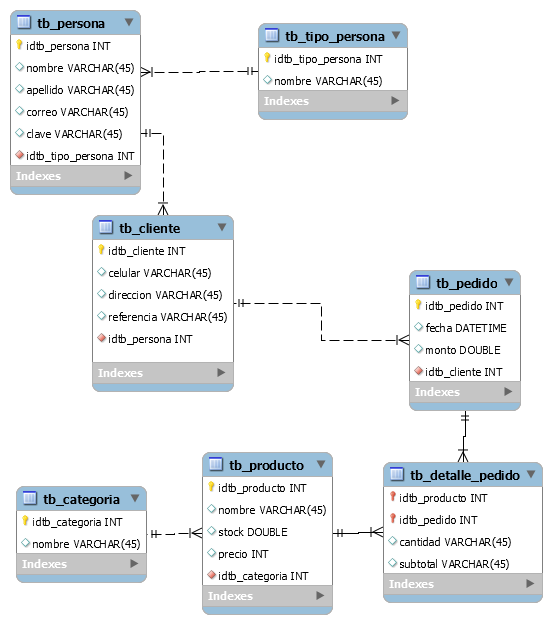
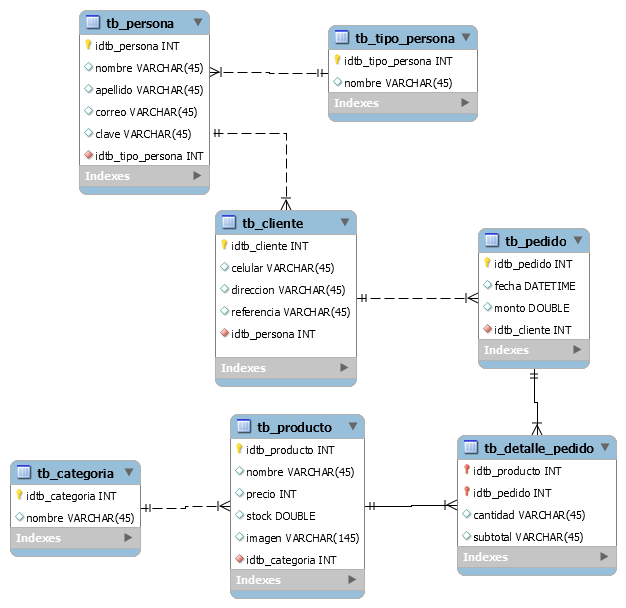
Administrador - Producto, listar y agregar finish

Changed region(s): [[0.0, 0.0, 0.9855, 1.0], [0.0, 0.75, 0.308, 0.9375], [0.4312, 0.2188, 0.462, 0.25]]

diff --git a/application/views/producto/list.php b/application/views/producto/list.php
@@ -15,7 +15,7 @@
             <div class="box-body">
                 <div class="row">
                     <div class="col-md-12">
-                        <a href="<?php echo base_url(); ?>Producto/add" class="btn btn-primary btn-flat">
+                        <a href="<?php echo base_url(); ?>index.php/Producto/add" class="btn btn-primary btn-flat">
                             <span class="fa fa-plus"></span>
                             Agregar producto
                         </a>
@@ -28,51 +28,25 @@
                             <thead>
                                 <tr>
                                     <th>#</th>
-                                    <th>Codigo</th>
                                     <th>Nombre</th>
-                                    <th>Descripcion</th>
                                     <th>Precio</th>
                                     <th>Stock</th>
+                                    <th>Imagen</th>
                                     <th>Categoria</th>
                                     <th>Opciones</th>
                                 </tr>
                             </thead>
                             <tbody>
-                                <?php if(empty($productos)): ?>
-                                    <tr>
-                                        <td>0</td>
-                                        <td>No hay registros</td>
-                                        <td>No hay registros</td>
-                                        <td>No hay registros</td>
-                                        <td>No hay registros</td>
-                                        <td>No hay registros</td>
-                                        <td>No hay registros</td>
-                                        <td>
-                                            <div class="btn-group">
-                                                <a href="#" class="btn btn-info">
-                                                    <span class="fa fa-eye"></span>
-                                                </a>
-                                                <a href="#" class="btn btn-warning">
-                                                    <span class="fa fa-pencil"></span>
-                                                </a>
-                                                <a href="#" class="btn btn-danger">
-                                                    <span class="fa fa-remove"></span>
-                                                </a>
-                                            </div>
-                                        </td>
-                                    </tr>
-                                <?php endif; ?>
                                 <?php if(!empty($productos)): ?>
                                     <?php foreach($productos as $producto): ?>
                                         <tr>
                                             <td><?php echo $producto->idtb_producto; ?></td>
-                                            <td><?php echo $producto->codigo; ?></td>
                                             <td><?php echo $producto->nombre; ?></td>
-                                            <td><?php echo $producto->descripcion; ?></td>
                                             <td><?php echo $producto->precio; ?></td>
                                             <td><?php echo $producto->stock; ?></td>
+                                            <td><img src='<?php echo base_url(); ?>assets/template/imagenes/<?php echo $producto->imagen; ?>' style='height:200px;'></td>
                                             <td><?php echo $producto->categoria; ?></td>
-                                            <?php $dataproducto = $producto->idtb_producto."*".$producto->codigo."*".$producto->nombre."*".$producto->descripcion."*".$producto->precio."*".$producto->stock."*".$producto->categoria; ?>
+                                            <?php $dataproducto = $producto->idtb_producto."*".$producto->nombre."*".$producto->precio."*".$producto->stock."*".$producto->categoria; ?>
                                             <td>
                                                 <div class="btn-group">
                                                     <!-- version categoria -->
@@ -81,11 +55,8 @@
                                                     <button type="button" class="btn btn-info btn-view-producto" data-toggle="modal" data-target="#modal-default" value="<?php echo $dataproducto ?>">
                                                         <span class="fa fa-search"></span>
                                                     </button>
-                                                    <a href="<?php echo base_url() ?>Producto/edit/<?php echo $producto->idtb_producto; ?>" class="btn btn-warning">
+                                                    <a href="<?php echo base_url() ?>index.php/Producto/edit/<?php echo $producto->idtb_producto; ?>" class="btn btn-warning">
                                                         <span class="fa fa-pencil"></span>
-                                                    </a>
-                                                    <a href="<?php echo base_url() ?>Producto/delete/<?php echo $producto->idtb_producto; ?>" class="btn btn-danger btn-remove-producto">
-                                                        <span class="fa fa-remove"></span>
                                                     </a>
                                                 </div>
                                             </td>

diff --git a/application/views/producto/add.php b/application/views/producto/add.php
@@ -24,20 +24,7 @@
                                 </p>                                
                              </div>
                         <?php endif;?>
-                        <form action="<?php echo base_url() ?>Producto/store" method="POST">
-                            <!-- El condicional es para que se muestre en rojo cuando se ha producido un error al agregar -->
-                            <!-- En el condicional se valida que la variable error este vacio, esa variable viene del Controlador -->
-                            <div class="form-group <?php echo !empty(form_error("codigo")) ? 'has-error' : '' ?>">
-                                <label for="codigo">Codigo:</label>
-                                <!-- Para recuperar la informacion que se ha enviado se agrega la propiedad "value" a la etiqueta "input y se imprime el metodo set_value()" -->
-                                <!-- El metodo "set_value()" recibe como parametro el nombre del campo que se esta validando -->
-                                <input type="text" class="form-control" id="codigo" name="codigo" value="<?php echo set_value("codigo") ?>">
-                                <!-- Imprimir el metodo form_error() recibe 3 parametros -->
-                                <!-- 1) Nombre del campo del cual estamos haciendo la validacion -->
-                                <!-- 2) La etiqueta donde se va a imprimir dicho mensaje "<span>" (Se puede estilizar) -->
-                                <!-- 3) Se indica el cierre de la etiqueta "</span>" -->
-                                <?php echo form_error("codigo", "<span class='help-block'>", "</span>") ?>
-                            </div>
+                        <form action="<?php echo base_url() ?>index.php/Producto/store" method="POST" enctype="multipart/form-data">
                             <!-- El condicional es para que se muestre en rojo cuando se ha producido un error al agregar -->
                             <!-- En el condicional se valida que la variable error este vacio, esa variable viene del Controlador -->
                             <div class="form-group <?php echo !empty(form_error("nombre")) ? 'has-error' : '' ?>">
@@ -50,10 +37,6 @@
                                 <!-- 2) La etiqueta donde se va a imprimir dicho mensaje "<span>" (Se puede estilizar) -->
                                 <!-- 3) Se indica el cierre de la etiqueta "</span>" -->
                                 <?php echo form_error("nombre", "<span class='help-block'>", "</span>") ?>
-                            </div>
-                            <div class="form-group">
-                                <label for="descripcion">Descripcion:</label>
-                                <input type="text" class="form-control" id="descripcion" name="descripcion">
                             </div>
                             <!-- El condicional es para que se muestre en rojo cuando se ha producido un error al agregar -->
                             <!-- En el condicional se valida que la variable error este vacio, esa variable viene del Controlador -->
@@ -81,6 +64,19 @@
                                 <!-- 3) Se indica el cierre de la etiqueta "</span>" -->
                                 <?php echo form_error("stock", "<span class='help-block'>", "</span>") ?>
                             </div>
+                            <div class="form-group">
+                                <div class="btn btn-default btn-file">
+                                    <i class="fa fa-image"></i> Imagen
+                                    <input type="file" name="imagen" accept="image/x-png,image/gif,image/jpeg">
+                                </div>
+                                <p class="help-block">Max. 32MB</p>
+                            </div>
+                            <!-- <div class="form-group">
+                                <input type="file" name="imagen" accept="image/*">
+                            </div>
+                            <div class="form-group">
+                                <input type="file" name="imagen" accept="image/x-png,image/gif,image/jpeg">
+                            </div> -->
                             <div class="form-group">
                                 <label for="categoria">Categoria:</label>
                                 <select name="categoria" id="categoria" class="form-control">

diff --git a/application/controllers/Producto.php b/application/controllers/Producto.php
@@ -39,7 +39,7 @@ class Producto extends CI_Controller {
         $nombre = $this->input->post("nombre");
         $precio = $this->input->post("precio");
         $stock = $this->input->post("stock");
-        $imagen = $this->input->post("imagen");
+        //$imagen = $this->input->post("imagen");
         $categoria = $this->input->post("categoria");
 
         // Para establecer una regla de validacion se tiene que ejecutar el metodo set_rules
@@ -54,21 +54,38 @@ class Producto extends CI_Controller {
         // Para ejecutar esta regla de validacion se debe llamar al metodo "RUN" de la libreria "form_validation"
         // Devuelve valor booleano
         if($this->form_validation->run()){
-            $data = array(
-                'nombre' => $nombre,
-                'precio' => $precio,
-                'stock' => $stock,
-                'imagen' => $imagen,
-                'idtb_categoria' => $categoria
-            );
-    
-            if($this->Producto_model->saveProducto($data)){
-                redirect(base_url()."Producto");
+
+            $config = [
+                "upload_path" => "./assets/template/imagenes",
+                'allowed_types' => "png|jpg|gif|jpeg"
+            ];
+            $this->load->library("upload", $config);
+
+            if($this->upload->do_upload('imagen')){
+                $dataimagen = array(
+                    "upload_data" => $this->upload->data()
+                );
+
+                $data = array(
+                    'nombre' => $nombre,
+                    'precio' => $precio,
+                    'stock' => $stock,
+                    // Nombre de la imagen con extension
+                    'imagen' => $dataimagen['upload_data']['file_name'],
+                    'idtb_categoria' => $categoria
+                );
+        
+                if($this->Producto_model->saveProducto($data)){
+                    redirect(base_url()."index.php/Producto");
+                }
+                else{
+                    $this->session->set_flashdata("error", "No se pudo guardar el nuevo producto");
+                    redirect(base_url()."index.php/Producto/add");
+                }
             }
             else{
-                $this->session->set_flashdata("error", "No se pudo guardar el nuevo producto");
-                redirect(base_url()."Producto/add");
-            }            
+                echo $this->upload->display_errors();
+            }
         }
         else{
             // Se va a mostrar el formulario de Agregar nuevamente

diff --git a/application/views/layouts/aside.php b/application/views/layouts/aside.php
@@ -8,7 +8,7 @@
                 <ul class="sidebar-menu" data-widget="tree">
                     <li class="header">MAIN NAVIGATION</li>
                     <li>
-                        <a href="<?php echo base_url() ?>AdminDashboard">
+                        <a href="<?php echo base_url() ?>index.php/Dashboard">
                             <i class="fa fa-home"></i> <span>Inicio</span>
                         </a>
                     </li>
@@ -44,9 +44,9 @@
                             </span>
                         </a>
                         <ul class="treeview-menu">
-                            <li><a href="../../index.html"><i class="fa fa-circle-o"></i> Categorias</a></li>
-                            <li><a href="../../index.html"><i class="fa fa-circle-o"></i> Clientes</a></li>
-                            <li><a href="../../index.html"><i class="fa fa-circle-o"></i> Productos</a></li>
+                            <li><a href="#"><i class="fa fa-circle-o"></i> Categorias</a></li>
+                            <li><a href="#"><i class="fa fa-circle-o"></i> Clientes</a></li>
+                            <li><a href="#"><i class="fa fa-circle-o"></i> Productos</a></li>
                             <li><a href="<?php echo base_url() ?>index.php/Reporte/Venta"><i class="fa fa-circle-o"></i> Ventas</a></li>
                         </ul>
                     </li>
@@ -58,7 +58,7 @@
                             </span>
                         </a>
                         <ul class="treeview-menu">
-                            <li><a href="../../index.html"><i class="fa fa-circle-o"></i> Tipo Documentos</a></li>
+                            <li><a href="#"><i class="fa fa-circle-o"></i> Tipo Documentos</a></li>
                             <li><a href="<?php echo base_url() ?>index.php/Usuario"><i class="fa fa-circle-o"></i> Usuarios</a></li>
                             <li><a href="<?php echo base_url() ?>index.php/Permiso"><i class="fa fa-circle-o"></i> Permisos</a></li>
                         </ul>
